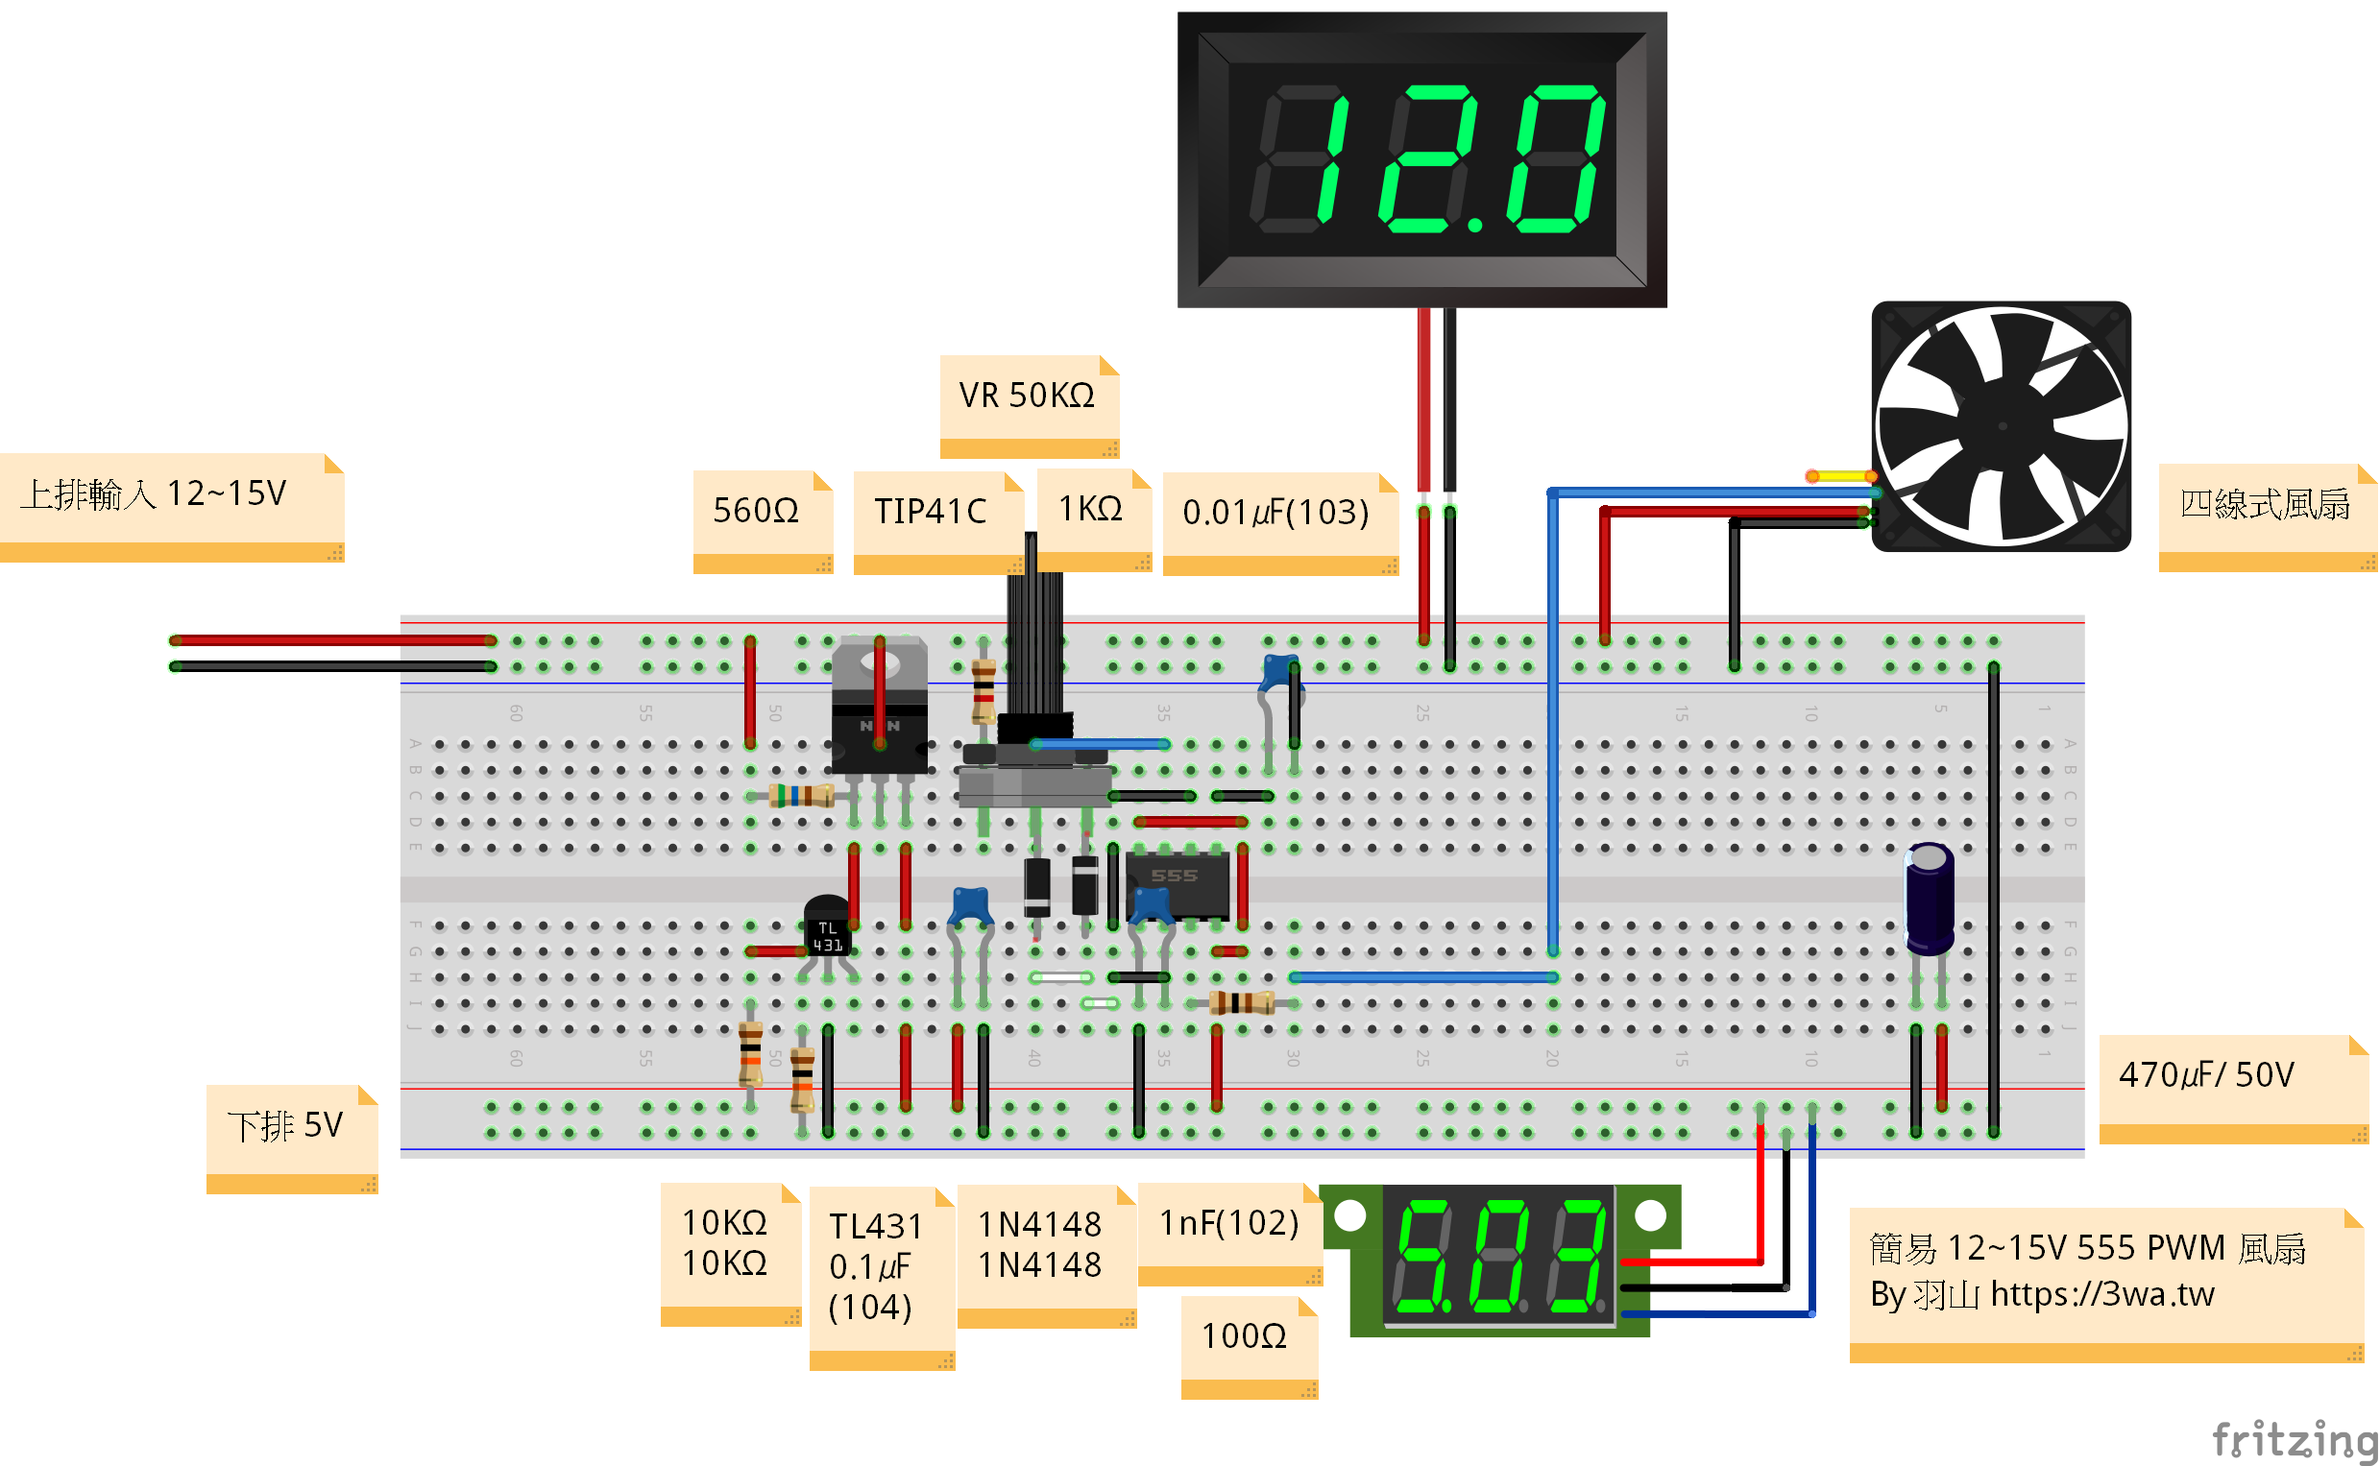
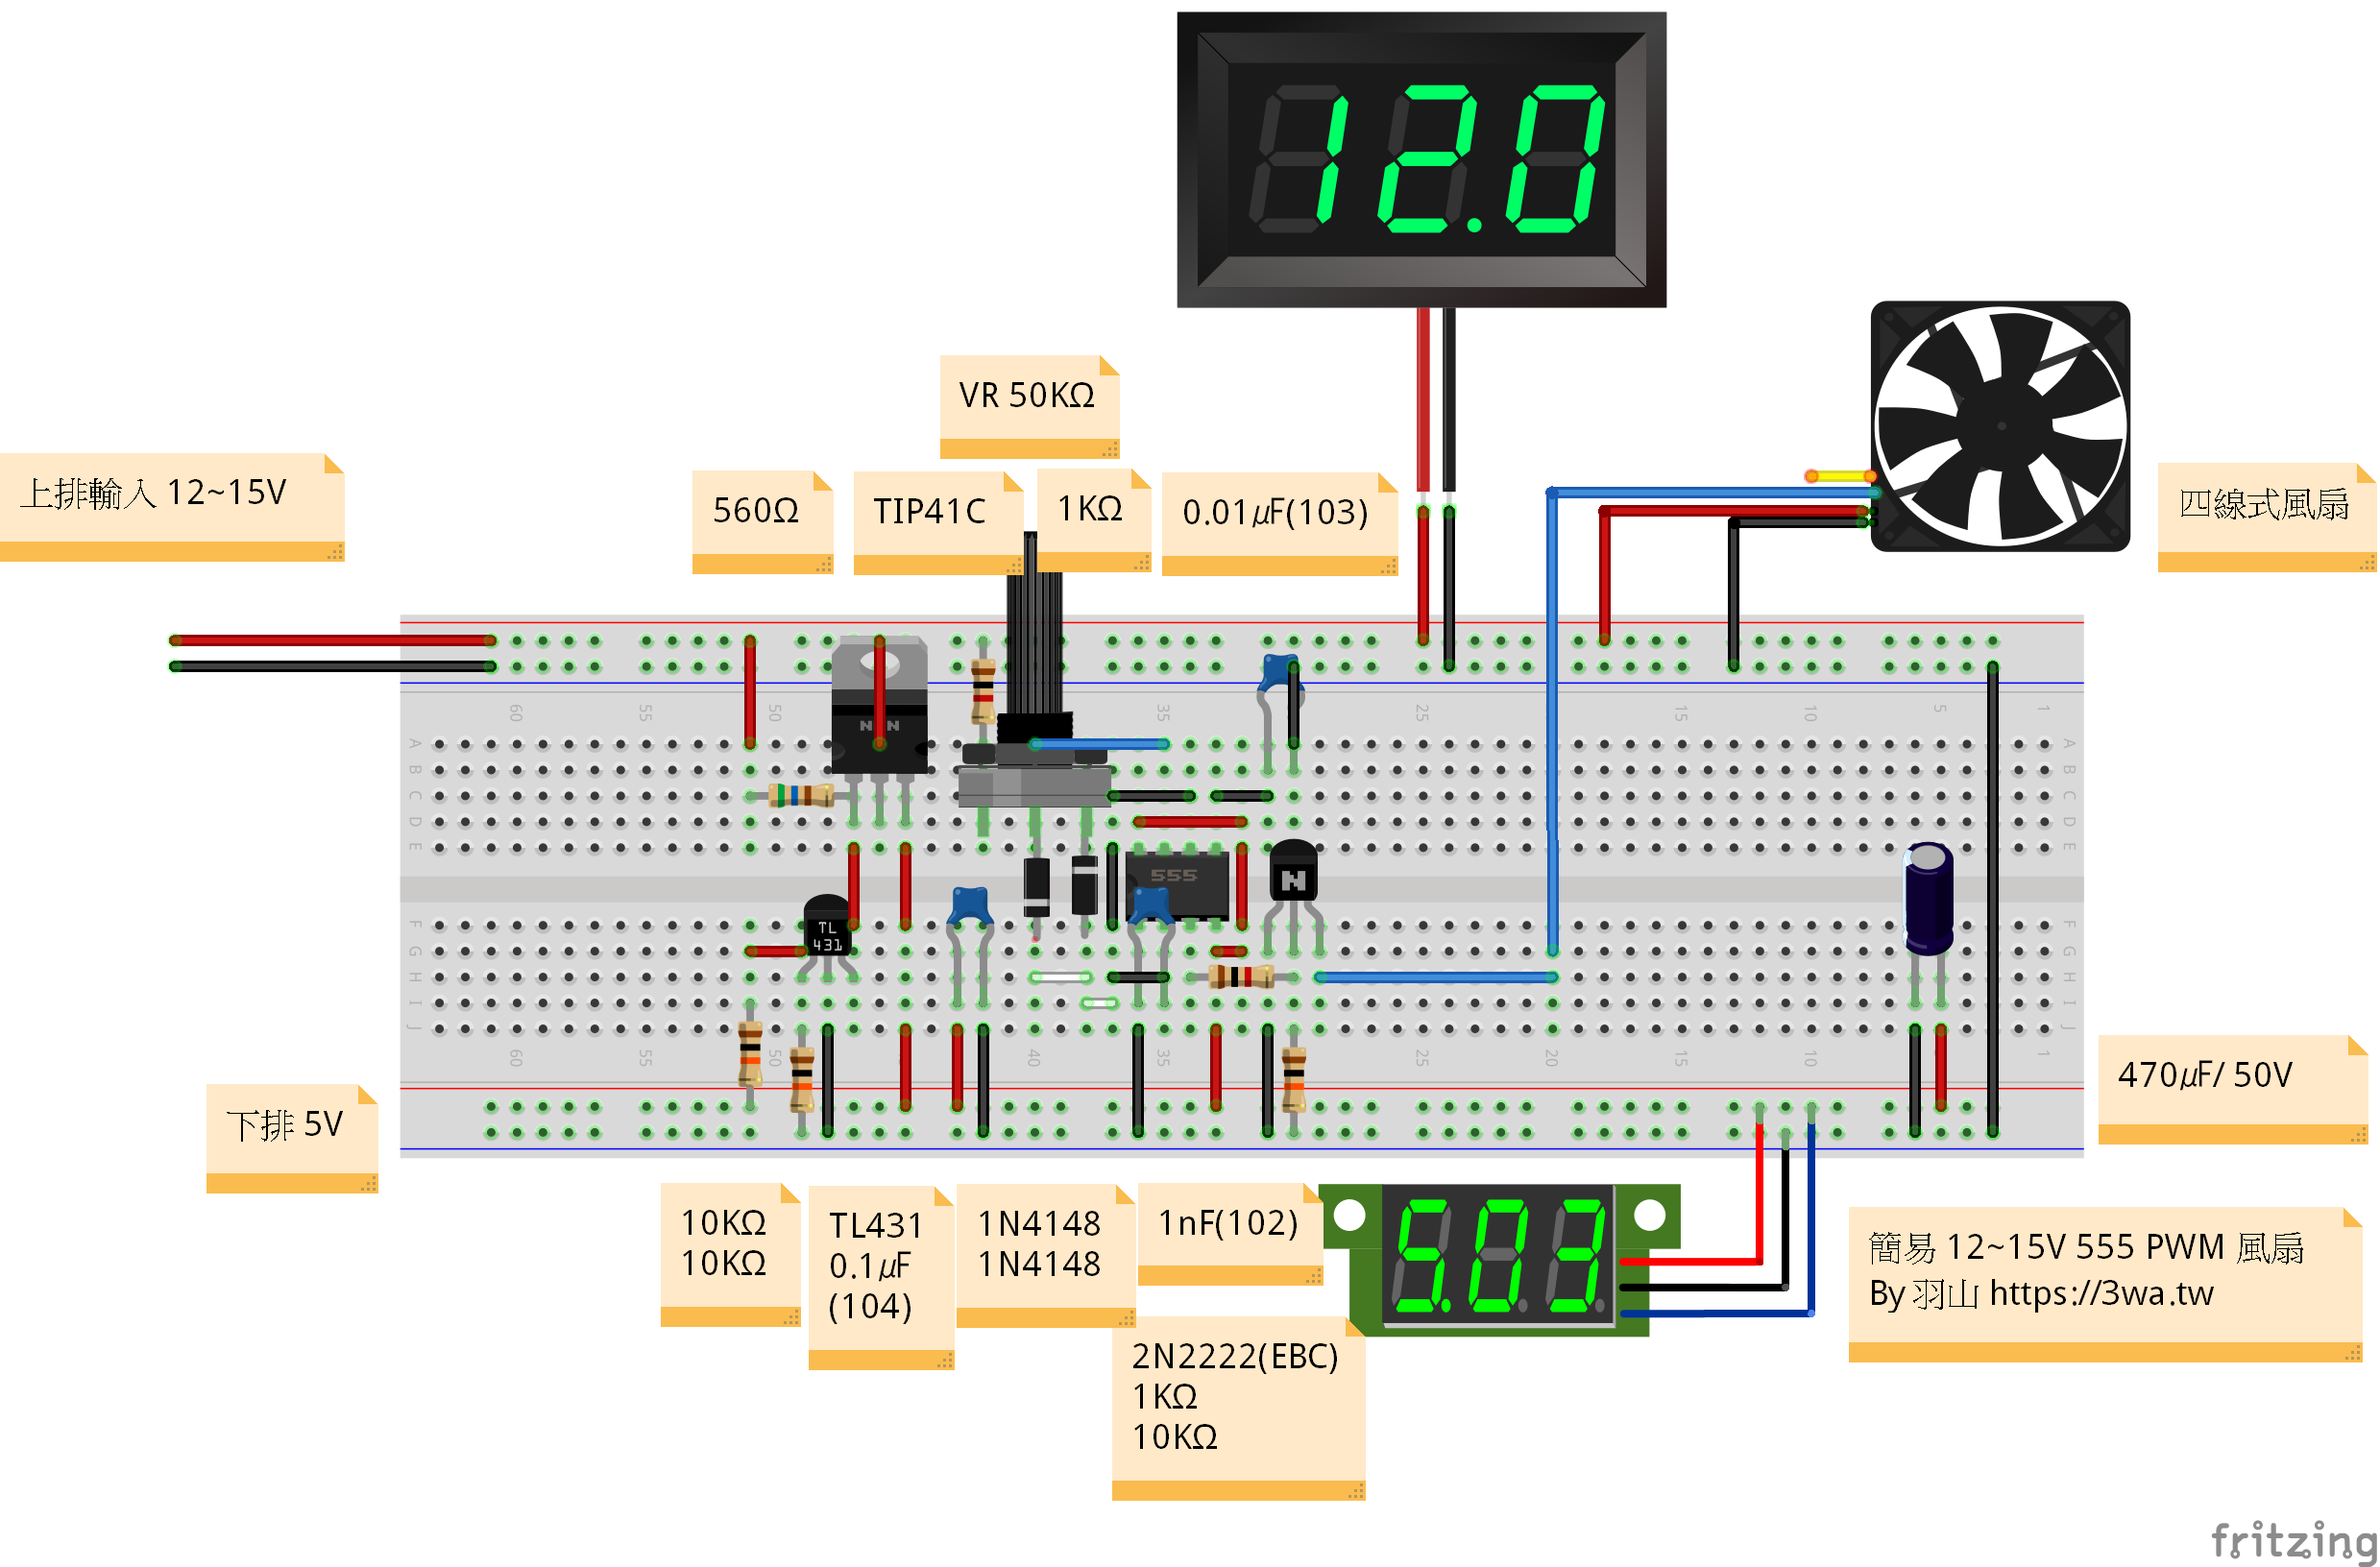
3腳加上 NPN 2N2222

Changed region(s): [[0.0, 0.0308, 1.0, 1.0]]

diff --git a/README.md b/README.md
@@ -65,9 +65,10 @@
 - `VR 50K`
 - `100Ω`
 - `560Ω`
-- `1KΩ`
-- `10KΩ x2`
-- `1N4148 x2`
+- `1KΩ x 2`
+- `10KΩ x 3`
+- `1N4148 x 2`
+- `電晶體 NPN 2N2222 (EBC)`
 - `陶瓷電容 0.01uF (103)`
 - `陶瓷電容 1nF (102)`
 - `陶瓷電容 0.1uF (104)`
